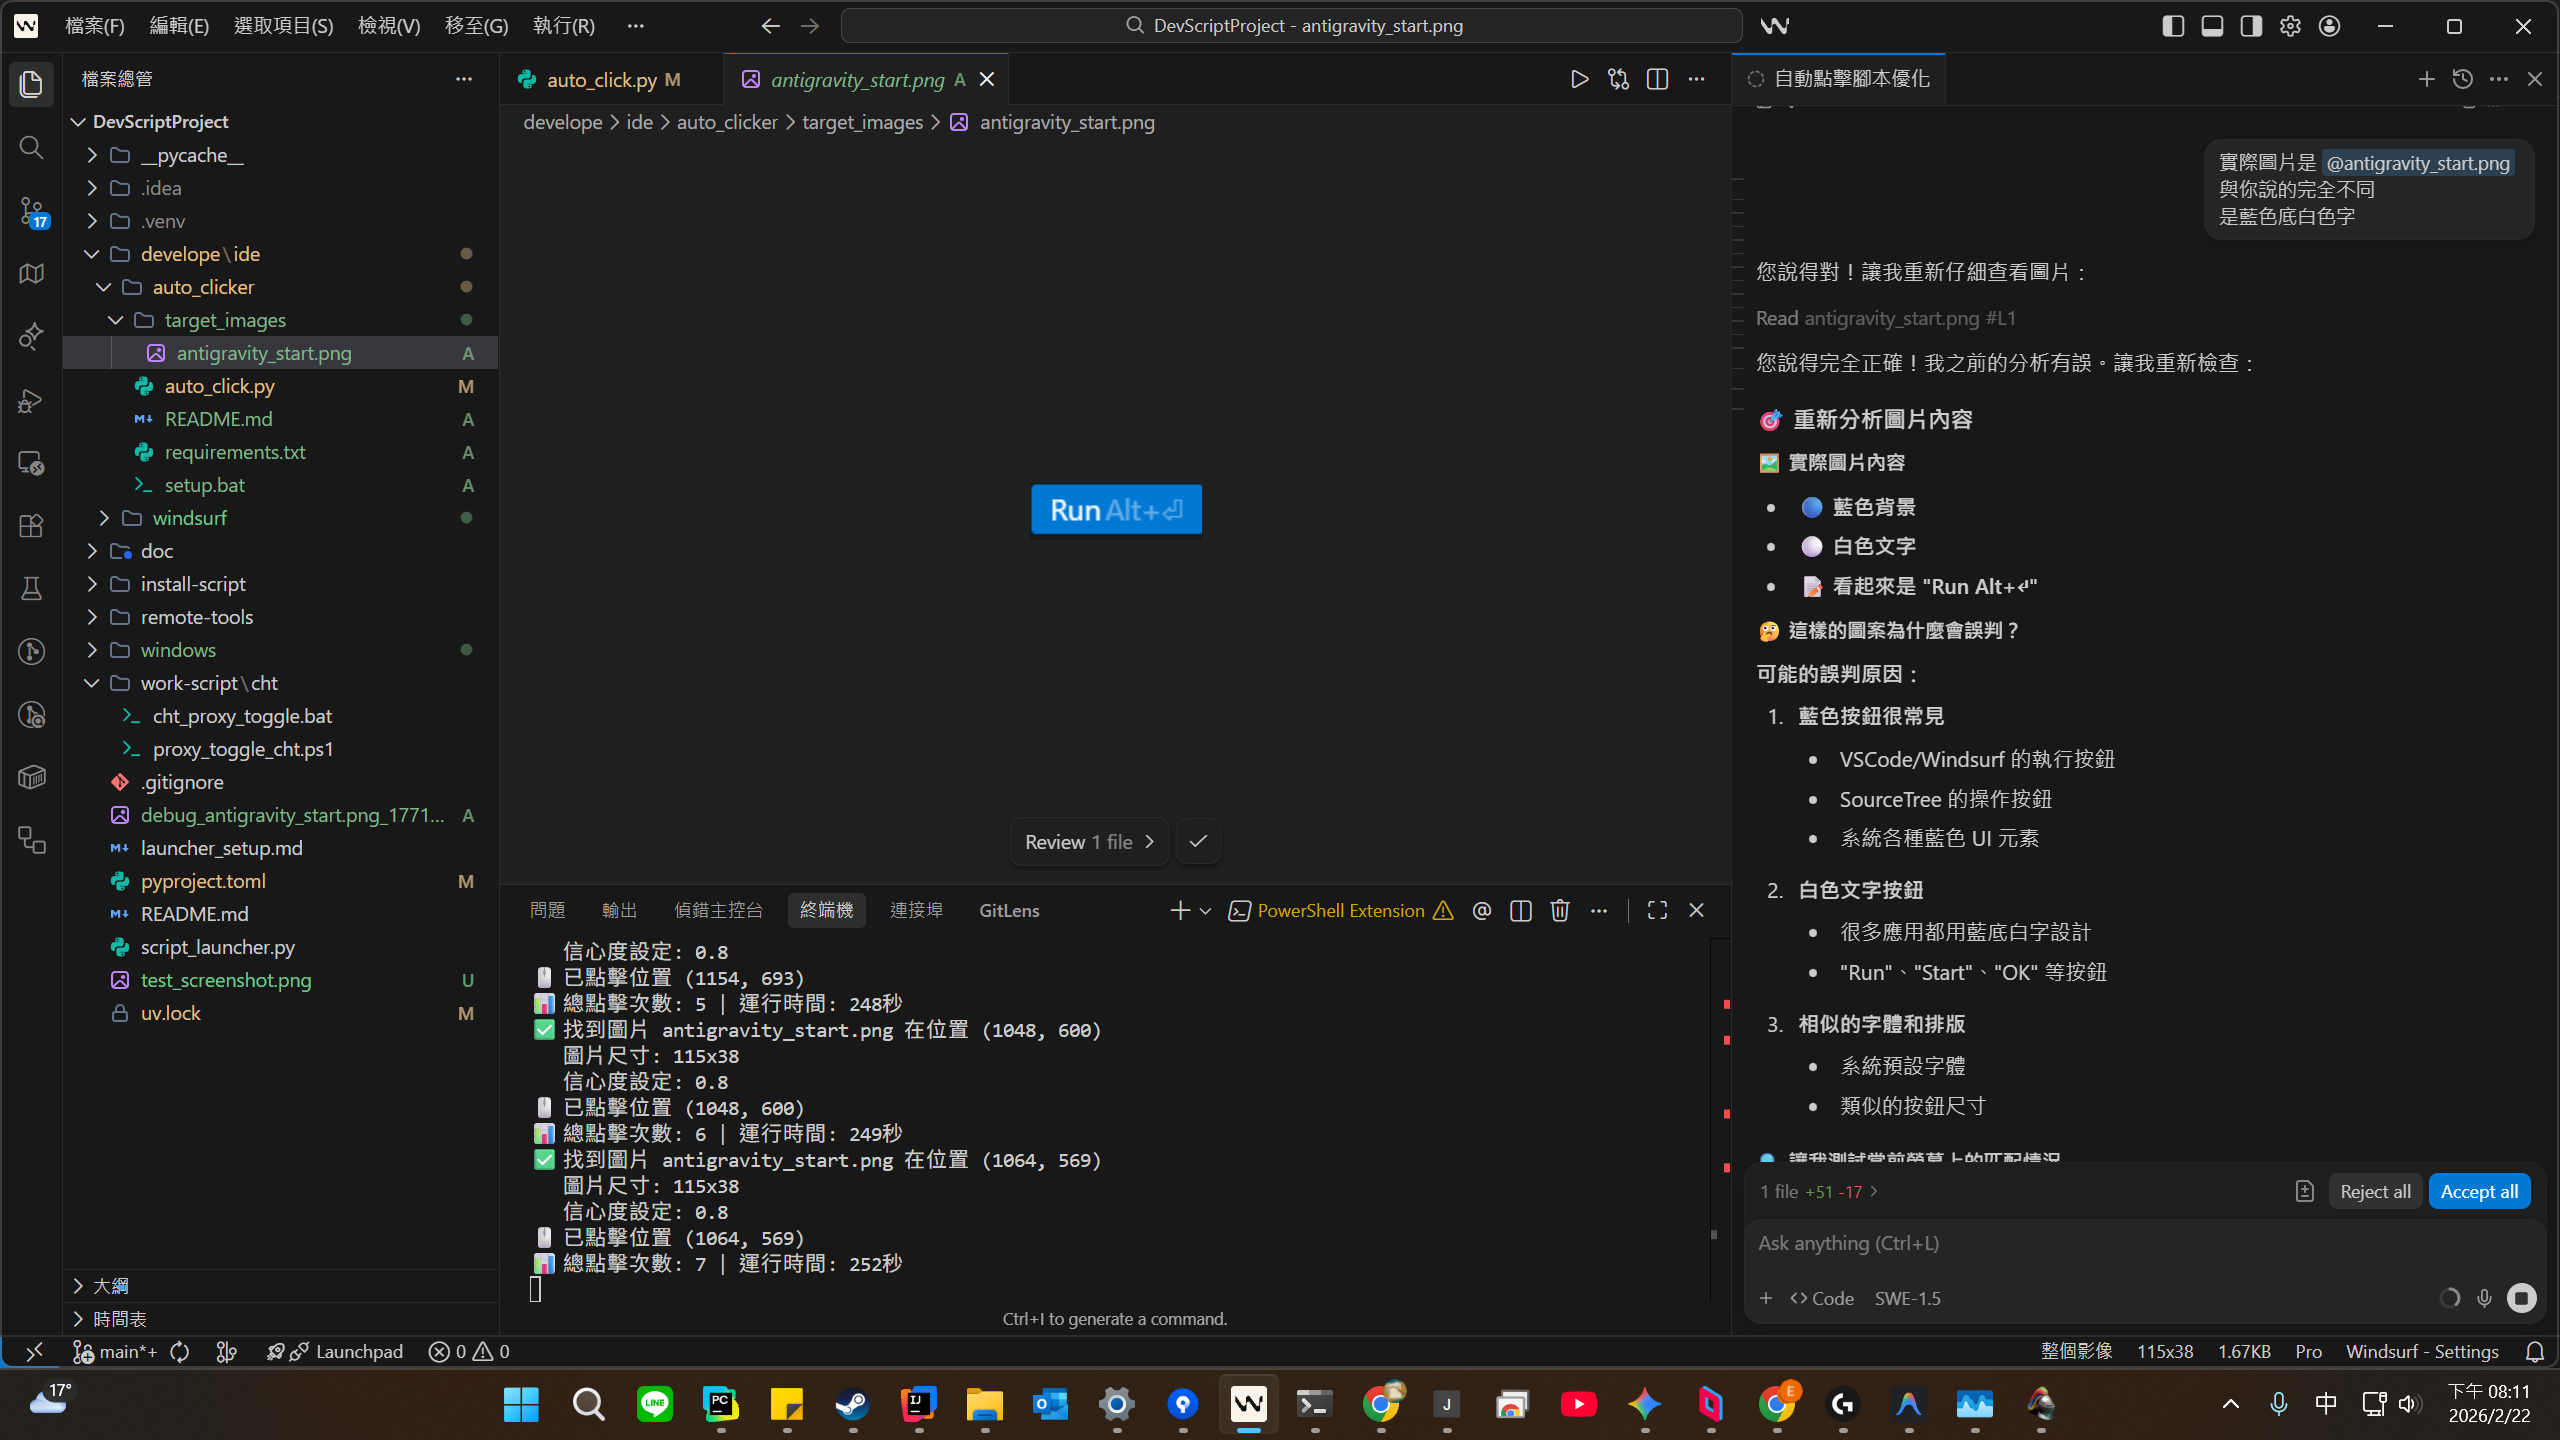
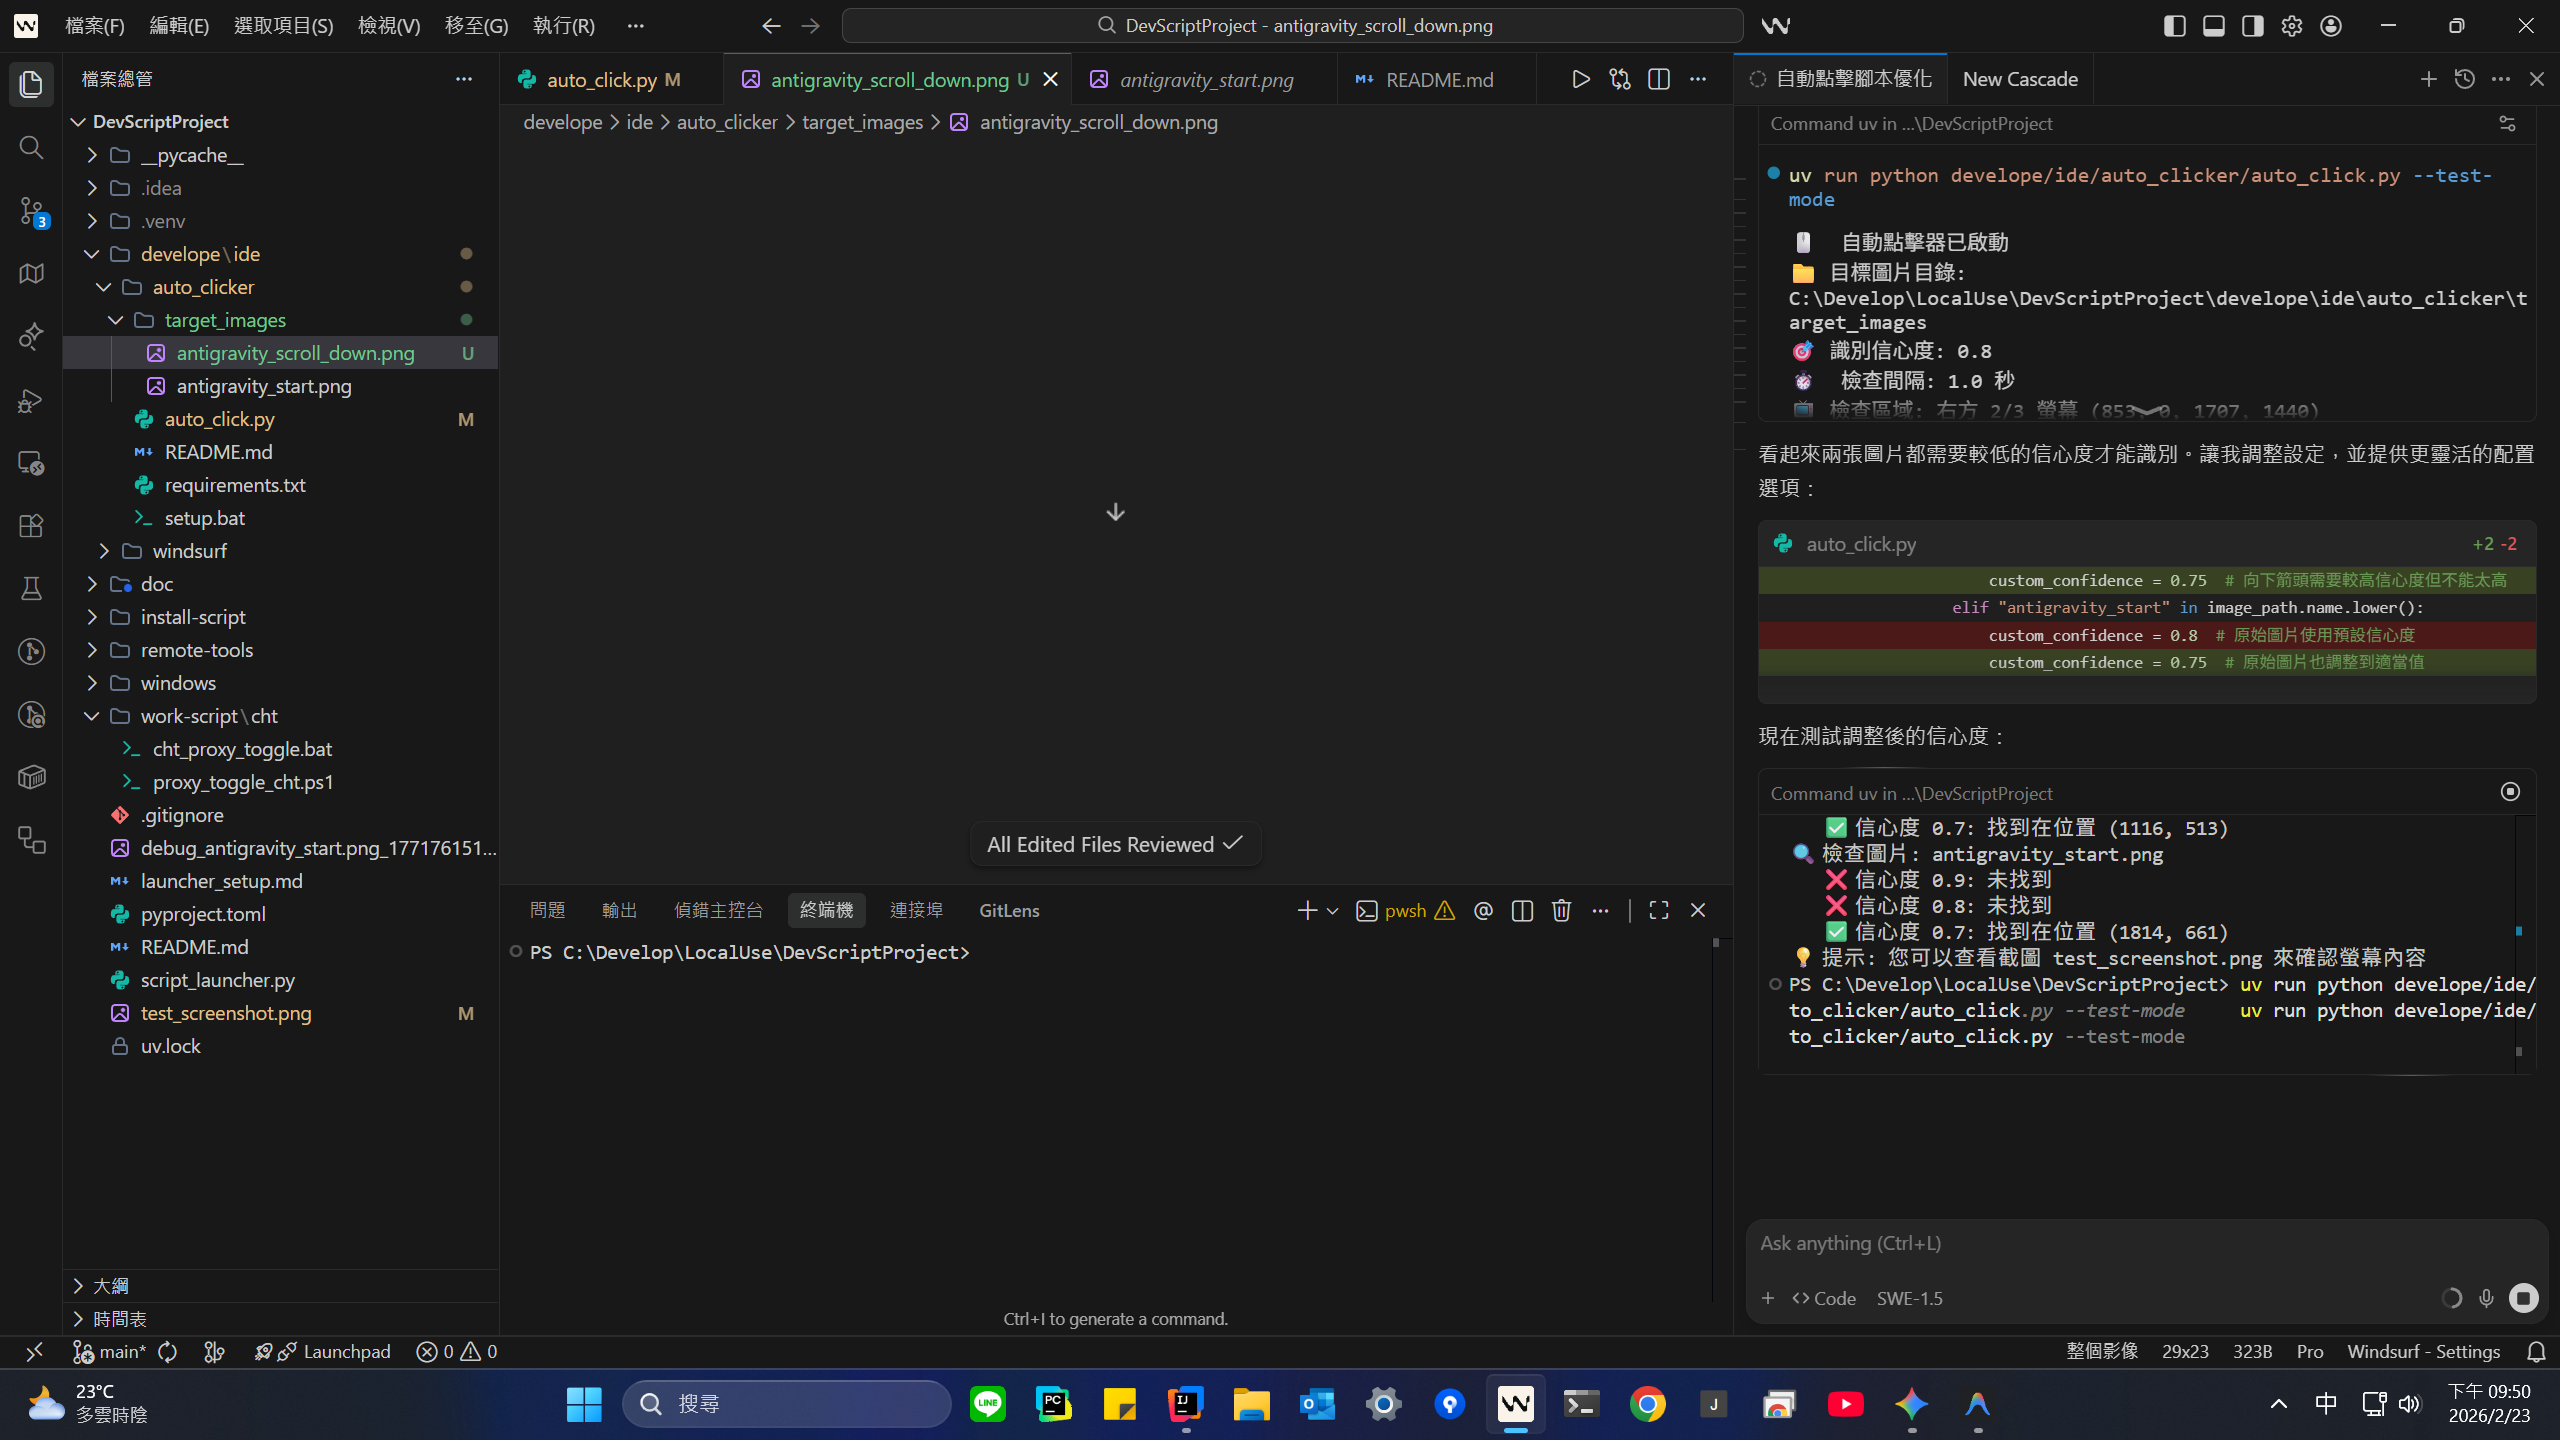
更新自動點擊器功能：新增目錄結構支援信心度和點擊比例設定
- 新增從目錄名稱推導信心度設定功能 (conf0.8 格式)
- 新增從目錄名稱推導點擊比例功能 (click_x50_y50 格式)
- 調整預設檢查間隔時間從 1.0 秒改為 3.0 秒
- 改善圖片載入邏輯，支援遞迴搜尋子目錄
- 新增 conf0.8 目錄範例
- 刪除舊的 antigravity_start.png 檔案
- 更新測試截圖

diff --git a/develope/ide/auto_clicker/auto_click.py b/develope/ide/auto_clicker/auto_click.py
@@ -17,9 +17,10 @@ import os
 import sys
 from pathlib import Path
 import argparse
+import re
 
 class AutoClicker:
-    def __init__(self, target_dir="target_images", confidence=0.8, check_interval=1.0, screen_region=None, scroll_after_click=False, scroll_amount=3):
+    def __init__(self, target_dir="target_images", confidence=0.8, check_interval=3.0, screen_region=None, scroll_after_click=False, scroll_amount=3):
         """
         初始化自動點擊器
         
@@ -71,49 +72,122 @@ class AutoClicker:
             print(f"❌ 目標圖片目錄不存在: {self.target_dir}")
             return []
             
-        image_files = []
-        for ext in ['*.png', '*.jpg', '*.jpeg', '*.bmp', '*.gif']:
-            image_files.extend(self.target_dir.glob(ext))
+        image_entries = []
+        patterns = ['*.png', '*.jpg', '*.jpeg', '*.bmp', '*.gif']
+        for ext in patterns:
+            image_entries.extend(
+                {
+                    "path": img,
+                    "confidence": self.extract_confidence_from_path(img),
+                    "click_ratio": self.extract_click_ratio_from_path(img)
+                }
+                for img in self.target_dir.rglob(ext)
+            )
             
-        if not image_files:
+        if not image_entries:
             print(f"❌ 在 {self.target_dir} 中沒有找到圖片檔案")
             print("請將目標圖片放入該目錄中 (支援 .png, .jpg, .jpeg, .bmp, .gif)")
             return []
             
-        print(f"📸 找到 {len(image_files)} 個目標圖片:")
-        for img in image_files:
-            print(f"   - {img.name}")
+        print(f"📸 找到 {len(image_entries)} 個目標圖片:")
+        for entry in image_entries:
+            confidence_info = (
+                f" (指定信心度: {entry['confidence']})"
+                if entry["confidence"] is not None else ""
+            )
+            click_ratio_info = (
+                f" (點擊比例: X={entry['click_ratio'][0]*100:.0f}% Y={entry['click_ratio'][1]*100:.0f}%)"
+                if entry["click_ratio"] is not None else ""
+            )
+            print(
+                f"   - {entry['path'].relative_to(self.target_dir)}"
+                f"{confidence_info}{click_ratio_info}"
+            )
         print()
         
-        return image_files
+        return image_entries
+
+    def extract_confidence_from_path(self, image_path: Path):
+        """從目錄名稱推導圖片信心度設定"""
+        try:
+            relative_parts = image_path.relative_to(self.target_dir).parts[:-1]
+        except ValueError:
+            # 圖片不在 target_dir 中
+            return None
+        pattern = re.compile(r"conf(?:idence)?[_-]?([0-9]+(?:\.[0-9]+)?)", re.IGNORECASE)
+        for part in relative_parts:
+            match = pattern.match(part)
+            if not match:
+                continue
+            value = float(match.group(1))
+            if value > 1:
+                value /= 100
+            return max(0.0, min(value, 1.0))
+        return None
     
-    def find_and_click_image(self, image_path):
+    def extract_click_ratio_from_path(self, image_path: Path):
+        """從目錄名稱推導圖片點擊比例設定 (X/Y 介於 0-1)"""
+        try:
+            relative_parts = image_path.relative_to(self.target_dir).parts[:-1]
+        except ValueError:
+            return None
+        pattern = re.compile(
+            r"click[_-]?x([0-9]+(?:\.[0-9]+)?)[_-]?y([0-9]+(?:\.[0-9]+)?)",
+            re.IGNORECASE
+        )
+        for part in relative_parts:
+            match = pattern.search(part)
+            if not match:
+                continue
+            x_val = float(match.group(1))
+            y_val = float(match.group(2))
+            if x_val > 1:
+                x_val /= 100
+            if y_val > 1:
+                y_val /= 100
+            return (
+                max(0.0, min(x_val, 1.0)),
+                max(0.0, min(y_val, 1.0))
+            )
+        return None
+    
+    def find_and_click_image(self, image_path, custom_confidence=None, click_ratio=None):
         """
         尋找並點擊指定圖片
         
         Args:
             image_path: 圖片路徑
+            custom_confidence: 自訂信心度（覆蓋預設值）
+            click_ratio: (x_ratio, y_ratio) 介於 0-1 的相對點擊位置
             
         Returns:
             bool: 是否成功找到並點擊
         """
         try:
+            # 使用自訂信心度或預設信心度
+            confidence = custom_confidence if custom_confidence is not None else self.confidence
+            if click_ratio is None:
+                click_ratio = (0.5, 0.5)
+            x_ratio = max(0.0, min(click_ratio[0], 1.0))
+            y_ratio = max(0.0, min(click_ratio[1], 1.0))
+            
             # 在指定螢幕區域內尋找圖片
             location = pyautogui.locateOnScreen(
                 str(image_path), 
-                confidence=self.confidence,
+                confidence=confidence,
                 region=self.screen_region  # 限制檢查區域
             )
             
             if location:
-                # 取得圖片中心位置
-                center = pyautogui.center(location)
-                x, y = center.x, center.y
+                # 依照指定比例計算點擊位置
+                x = int(location.left + location.width * x_ratio)
+                y = int(location.top + location.height * y_ratio)
                 
                 # 顯示更詳細的識別資訊
                 print(f"✅ 找到圖片 {image_path.name} 在位置 ({x}, {y})")
                 print(f"   圖片尺寸: {location.width}x{location.height}")
-                print(f"   信心度設定: {self.confidence}")
+                print(f"   信心度設定: {confidence}")
+                print(f"   點擊比例: X={x_ratio*100:.1f}% Y={y_ratio*100:.1f}%")
                 
                 # 除錯模式：截圖並標記識別區域
                 if hasattr(self, 'debug_mode') and self.debug_mode:
@@ -154,8 +228,18 @@ class AutoClicker:
                 found_any = False
                 
                 # 檢查每個目標圖片
-                for image_path in target_images:
-                    if self.find_and_click_image(image_path):
+                for image_entry in target_images:
+                    image_path = image_entry["path"]
+                    # 依目錄配置信心度，若無則維持原有啟發式
+                    custom_confidence = image_entry.get("confidence")
+                    if custom_confidence is None:
+                        if "scroll_down" in image_path.name.lower():
+                            custom_confidence = 0.7
+                        elif "antigravity_start" in image_path.name.lower():
+                            custom_confidence = 0.6
+                    click_ratio = image_entry.get("click_ratio")
+                    
+                    if self.find_and_click_image(image_path, custom_confidence, click_ratio):
                         click_count += 1
                         found_any = True
                         # 點擊後稍作等待，避免重複點擊
@@ -190,7 +274,8 @@ class AutoClicker:
         screenshot.save(screenshot_path)
         print(f"📸 已截圖並儲存為: {screenshot_path}")
         
-        for image_path in target_images:
+        for entry in target_images:
+            image_path = entry["path"]
             print(f"\n🔍 檢查圖片: {image_path.name}")
             
             try:
@@ -285,8 +370,8 @@ def main():
     parser.add_argument(
         "--interval", 
         type=float, 
-        default=1.0,
-        help="檢查間隔時間（秒）(預設: 1.0)"
+        default=3.0,
+        help="檢查間隔時間（秒）(預設: 3.0)"
     )
     parser.add_argument(
         "--region",
@@ -364,8 +449,8 @@ def main():
         # 詳細分析模式
         target_images = clicker.load_target_images()
         if target_images:
-            for image_path in target_images:
-                clicker.debug_detailed_analysis(image_path)
+            for entry in target_images:
+                clicker.debug_detailed_analysis(entry["path"])
     else:
         clicker.run()
 
